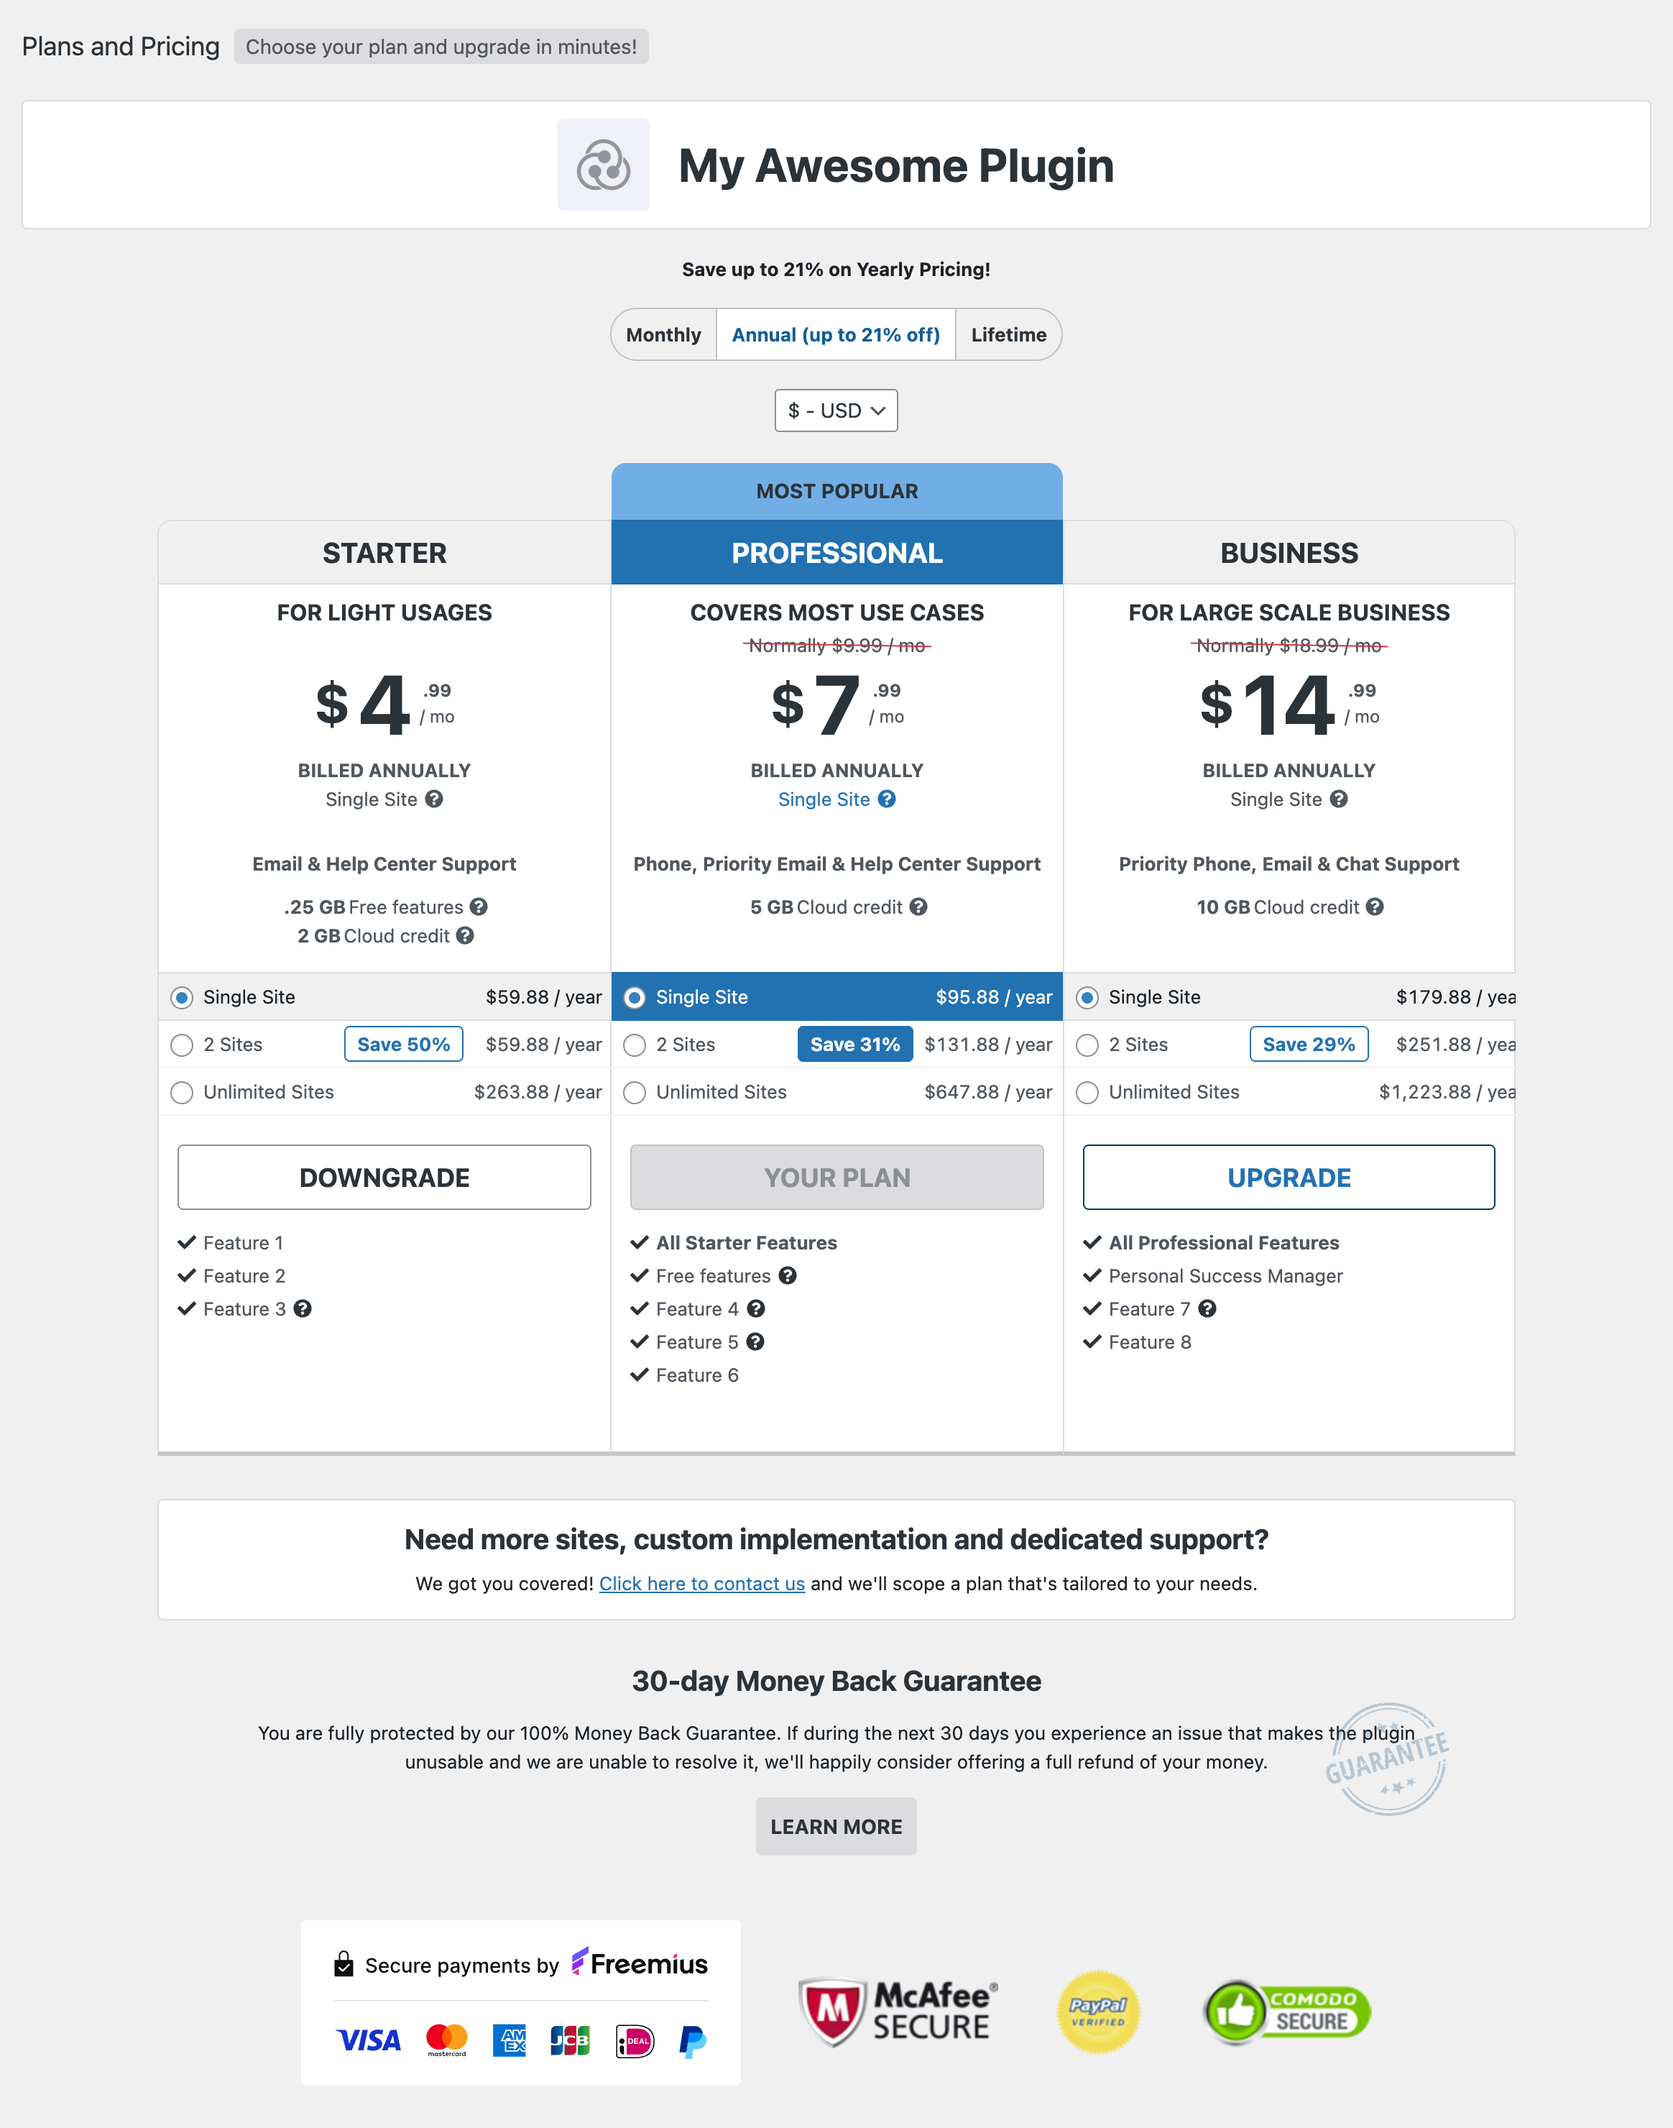
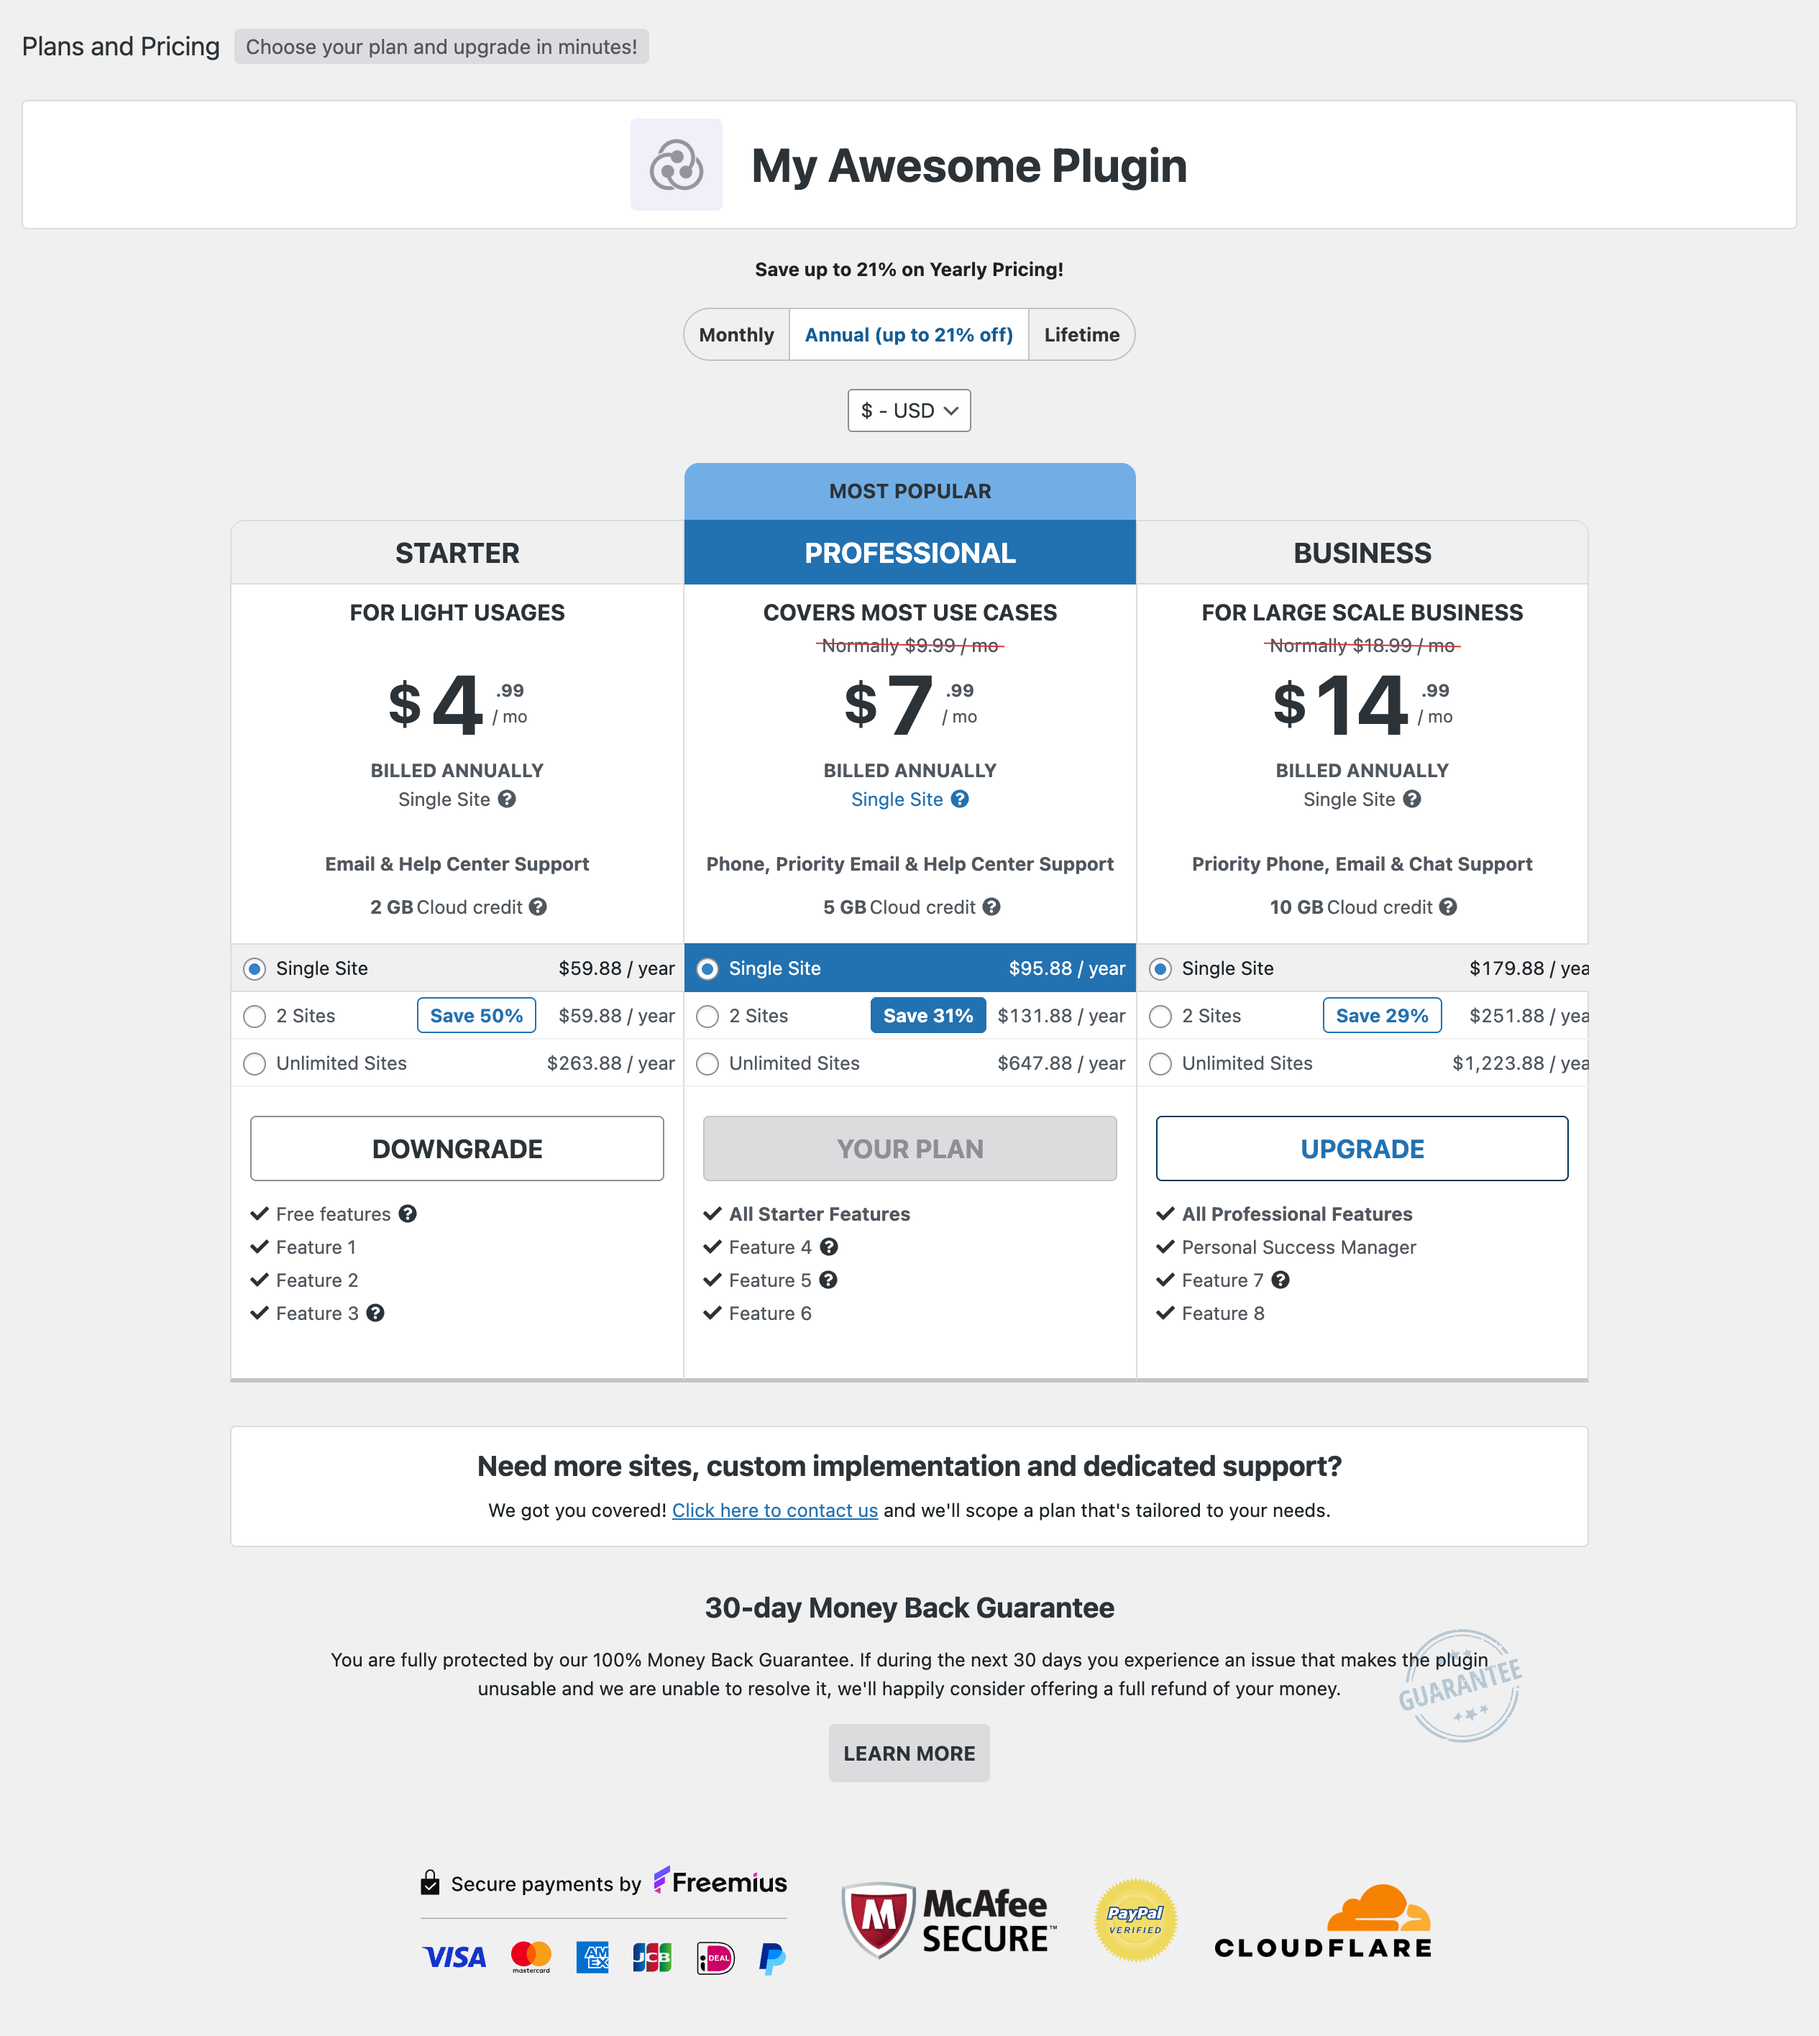
[badge] [update] Update freemius secure badge + Update old files with better resolutions

diff --git a/src/components/FreemiusPricingMain.js b/src/components/FreemiusPricingMain.js
@@ -2,12 +2,12 @@ import React, { Component, Fragment } from 'react';
 
 import '.././assets/scss/App.scss';
 
-import badgeFreemius from '.././assets/img/secure-payments-by-freemius.svg';
-import badgeMcAfee from '.././assets/img/mcafee.png';
-import badgePayPal from '.././assets/img/paypal.png';
-import badgeComodo from '.././assets/img/comodo-short-green.png';
-import defaultPluginIcon from '.././assets/img/plugin-icon.png';
-import defaultThemeIcon from '.././assets/img/theme-icon.png';
+import badgeFreemius from '../assets/img/secure-payments-by-freemius.svg';
+import badgeMcAfee from '../assets/img/mcafee.png';
+import badgePayPal from '../assets/img/paypal.svg';
+import badgeCloudFlare from '.././assets/img/cloudflare.png';
+import defaultPluginIcon from '../assets/img/plugin-icon.png';
+import defaultThemeIcon from '../assets/img/theme-icon.png';
 
 import { Plan } from '../entities/Plan';
 import { Plugin } from '../entities/Plugin';
@@ -879,22 +879,30 @@ class FreemiusPricingMain extends Component {
                       src: badgeFreemius,
                       alt: 'Secure payments by Freemius - Sell and market freemium and premium WordPress plugins & themes',
                       link: 'https://freemius.com/?badge=secure_payments&version=light#utm_source=wpadmin&utm_medium=payments_badge&utm_campaign=pricing_page',
+                      width: 300,
+                      height: 113,
                     },
                     {
                       key: 'mcafee',
                       src: badgeMcAfee,
                       alt: 'McAfee Badge',
                       link: 'https://www.mcafeesecure.com/verify?host=freemius.com',
+                      width: 150,
+                      height: 54,
                     },
                     {
                       key: 'paypal',
                       src: badgePayPal,
                       alt: 'PayPal Verified Badge',
+                      width: 80,
+                      height: 80,
                     },
                     {
-                      key: 'comodo',
-                      src: badgeComodo,
-                      alt: 'Comodo Secure SSL Badge',
+                      key: 'cloudflare',
+                      src: badgeCloudFlare,
+                      alt: 'CloudFlare Secure Badge',
+                      width: 150,
+                      height: 51,
                     },
                   ]}
                 />

diff --git a/src/assets/scss/App.scss b/src/assets/scss/App.scss
@@ -243,7 +243,7 @@
         border: 1px solid $fsds-divider-color;
         border-radius: 4px;
         box-sizing: border-box;
-        max-width: 945px;
+        max-width: $fsds-max-width-container;
         margin: 0 auto;
 
         h2 {
@@ -285,21 +285,25 @@
       }
 
       .fs-section--badges {
-        .fs-badge {
-          display: inline-block;
-          vertical-align: middle;
-          position: relative;
-          box-shadow: none;
-          background: transparent;
+        max-width: $fsds-max-width-container;
+        box-sizing: border-box;
+        margin: 0 auto;
+        padding: 10px;
 
-          img {
-            max-height: 115px;
-            width: auto;
-          }
+        .fs-badges {
+          list-style: none;
+          display: flex;
+          flex-flow: row wrap;
+          gap: 15px;
+          align-items: center;
+          justify-content: center;
 
-          & + .fs-badge {
-            margin-left: 20px;
-            margin-top: 13px;
+          &__item {
+            img {
+              max-width: 100%;
+              height: auto;
+              display: block;
+            }
           }
         }
       }

diff --git a/src/components/Badges.js b/src/components/Badges.js
@@ -11,20 +11,27 @@ class Badges extends Component {
 
   render() {
     return (
-      <ul>
+      <ul className="fs-badges">
         {this.props.badges.map(badge => {
-          let img = <img src={badge.src} alt={badge.alt} />;
+          let img = (
+            <img
+              src={badge.src}
+              alt={badge.alt}
+              width={badge.width}
+              height={badge.height}
+            />
+          );
 
           if (Helper.isNonEmptyString(badge.link)) {
             img = (
-              <a href={badge.link} target="_blank">
+              <a href={badge.link} target="_blank" rel="noopener noreferrer">
                 {img}
               </a>
             );
           }
 
           return (
-            <li key={badge.key} className="fs-badge">
+            <li key={badge.key} className="fs-badges__item">
               {img}
             </li>
           );

diff --git a/src/assets/scss/_vars.scss b/src/assets/scss/_vars.scss
@@ -2,3 +2,5 @@
 
 $fsds-breakpoint-tablet: 601px;
 $fsds-breakpoint-desktop: 784px;
+
+$fsds-max-width-container: 945px;
